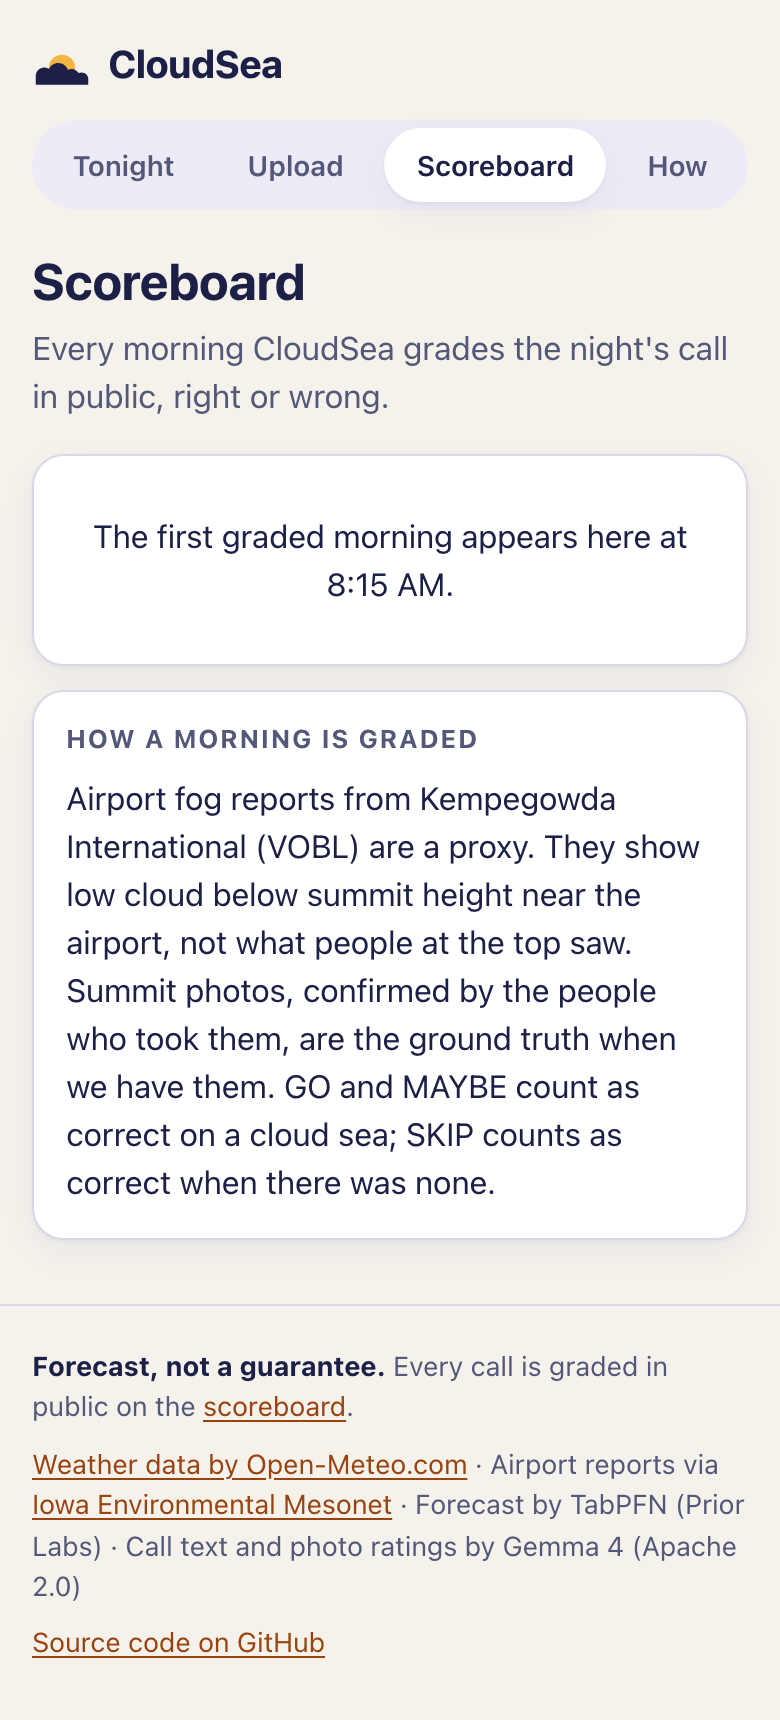
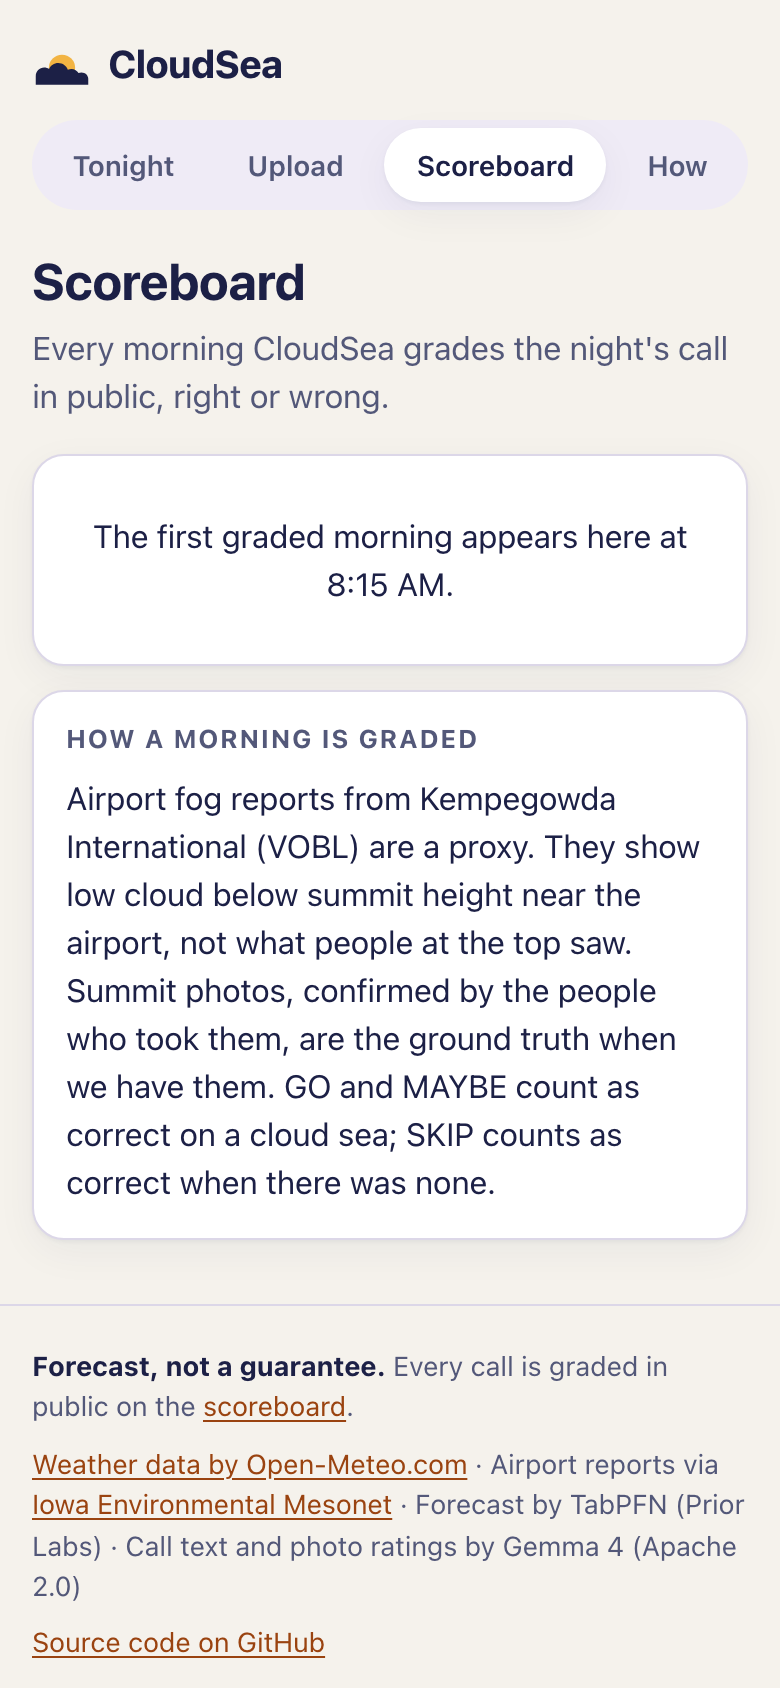
How page: dash for missing GO precision, no double rounding; screenshot script
Baselines showed 'NaN%' for GO precision; the live model showed 77%
because 0.7647 was stored as 0.765 and rounded again. make screenshots
captures the live app, a three-screen strip, the call in each language
and the share cards.

Entire-Checkpoint: 01M4JHZ409JT5N3SG9FYBMEM3V

diff --git a/web/src/types.ts b/web/src/types.ts
@@ -69,7 +69,7 @@ export interface Backtest {
     weekend_mornings: number; every_weekend_seas: number; go_trips: number; go_seas: number
     go_or_maybe_trips: number; go_or_maybe_seas: number; seas_missed_by_skip: number
   }
-  metrics: Array<{ model: string; brier: number; roc_auc: number; go_precision: number | null }>
+  metrics: Array<{ model: string; brier: number; roc_auc: number; go_precision?: number | null }>
   calibration: Array<{ bin: string; predicted: number; observed: number; n: number }>
 }
 

diff --git a/web/src/pages/How.tsx b/web/src/pages/How.tsx
@@ -160,7 +160,7 @@ function BacktestView({ bt }: { bt: Backtest }) {
                 <th scope="row">{m.model}</th>
                 <td>{two(m.brier)}</td>
                 <td>{two(m.roc_auc)}</td>
-                <td>{m.go_precision === null ? '–' : `${Math.round(m.go_precision * 100)}%`}</td>
+                <td>{m.go_precision == null ? "–" : `${Math.round(m.go_precision * 100)}%`}</td>
               </tr>
             ))}
           </tbody>

diff --git a/scripts/screenshots.py b/scripts/screenshots.py
@@ -1,0 +1,106 @@
+"""Screenshots of the live app for the README and the post: `make screenshots`.
+
+Uses headless Chromium through Playwright. Set CHROMIUM to a browser binary if Playwright's own isn't installed.
+Writes docs/screenshots/*.png, including a side-by-side strip of three screens and the server's share cards.
+"""
+from __future__ import annotations
+
+import asyncio
+import os
+import sys
+from pathlib import Path
+
+import httpx
+from PIL import Image, ImageDraw
+from playwright.async_api import async_playwright
+
+WEB = os.environ.get("WEB_URL", "https://cloudsea-web.onrender.com")
+API = os.environ.get("API_URL", "https://cloudsea-api.onrender.com")
+OUT = Path("docs/screenshots")
+PHONE = {"width": 390, "height": 844}
+PAGE_BG = (244, 241, 234)
+
+
+async def capture() -> None:
+    exe = os.environ.get("CHROMIUM")
+    async with async_playwright() as p:
+        browser = await p.chromium.launch(executable_path=exe) if exe else await p.chromium.launch()
+        for scheme in ("light", "dark"):
+            ctx = await browser.new_context(viewport=PHONE, device_scale_factor=2, color_scheme=scheme)
+            page = await ctx.new_page()
+            await page.goto(f"{WEB}/#/", wait_until="networkidle")
+            await page.wait_for_timeout(1000)
+            await page.screenshot(path=OUT / f"home-{scheme}.png")
+            if scheme == "dark":
+                await ctx.close()
+                continue
+            # The call card in each language Gemma wrote it in.
+            card = page.locator('section[aria-labelledby="text-h"]')
+            await card.screenshot(path=OUT / "call-en.png")
+            for lang, label in (("kn", "ಕನ್ನಡ"), ("hi", "हिन्दी")):
+                button = page.get_by_role("button", name=label)
+                if await button.count():
+                    await button.click()
+                    await page.wait_for_timeout(300)
+                    await card.screenshot(path=OUT / f"call-{lang}.png")
+            await page.locator('section[aria-labelledby="share-h"]').screenshot(path=OUT / "share-block.png")
+            for name in ("upload", "scoreboard"):
+                await page.goto(f"{WEB}/#/{name}", wait_until="networkidle")
+                await page.wait_for_timeout(1000)
+                await page.screenshot(path=OUT / f"{name}-light.png")
+            await page.goto(f"{WEB}/#/how", wait_until="networkidle")
+            await page.wait_for_timeout(1500)
+            await page.locator('section[aria-labelledby="backtest-h"]').screenshot(path=OUT / "how-backtest.png")
+            await page.screenshot(path=OUT / "how-light.png", full_page=True)
+            await ctx.close()
+        await browser.close()
+
+
+def rounded(im: Image.Image, radius: int) -> Image.Image:
+    mask = Image.new("L", im.size, 0)
+    ImageDraw.Draw(mask).rounded_rectangle((0, 0, *im.size), radius=radius, fill=255)
+    out = Image.new("RGBA", im.size)
+    out.paste(im, (0, 0), mask)
+    return out
+
+
+def strip(names: list[str], height: int = 1100, gap: int = 40) -> None:
+    """Three phone screens side by side, for a post that shouldn't scroll forever."""
+    shots = []
+    for n in names:
+        im = Image.open(OUT / n).convert("RGB")
+        im = im.resize((round(im.width * height / im.height), height), Image.LANCZOS)
+        shots.append(rounded(im, 36))
+    width = sum(s.width for s in shots) + gap * (len(shots) + 1)
+    canvas = Image.new("RGBA", (width, height + 2 * gap), PAGE_BG + (255,))
+    x = gap
+    for s in shots:
+        shadow = Image.new("RGBA", s.size, (0, 0, 0, 0))
+        ImageDraw.Draw(shadow).rounded_rectangle((0, 0, *s.size), radius=36, fill=(30, 30, 60, 40))
+        canvas.alpha_composite(shadow, (x + 4, gap + 6))
+        canvas.alpha_composite(s, (x, gap))
+        x += s.width + gap
+    canvas.convert("RGB").save(OUT / "app-strip.png", optimize=True)
+
+
+def share_cards() -> None:
+    today = httpx.get(f"{API}/api/today", timeout=30).json()
+    if not today.get("call"):
+        return
+    day = today["call"]["date"]
+    for kind in ("og", "story"):
+        r = httpx.get(f"{API}/{kind}/{day}.png", timeout=60)
+        if r.status_code == 200:
+            (OUT / f"{kind}-{day}.png").write_bytes(r.content)
+
+
+def main() -> None:
+    OUT.mkdir(parents=True, exist_ok=True)
+    asyncio.run(capture())
+    strip(["home-light.png", "upload-light.png", "scoreboard-light.png"])
+    share_cards()
+    print("\n".join(sorted(p.name for p in OUT.glob("*.png"))), file=sys.stderr)
+
+
+if __name__ == "__main__":
+    main()

diff --git a/cloudsea/model.py b/cloudsea/model.py
@@ -113,7 +113,7 @@ def metrics(y: np.ndarray, p: np.ndarray, t_go: float | None = None) -> dict:
     if t_go is not None:
         go = p >= t_go
         m["go_nights"] = int(go.sum())
-        m["go_precision"] = round(float(y[go].mean()), 3) if go.any() else None
+        m["go_precision"] = round(float(y[go].mean()), 4) if go.any() else None
     return m
 
 
